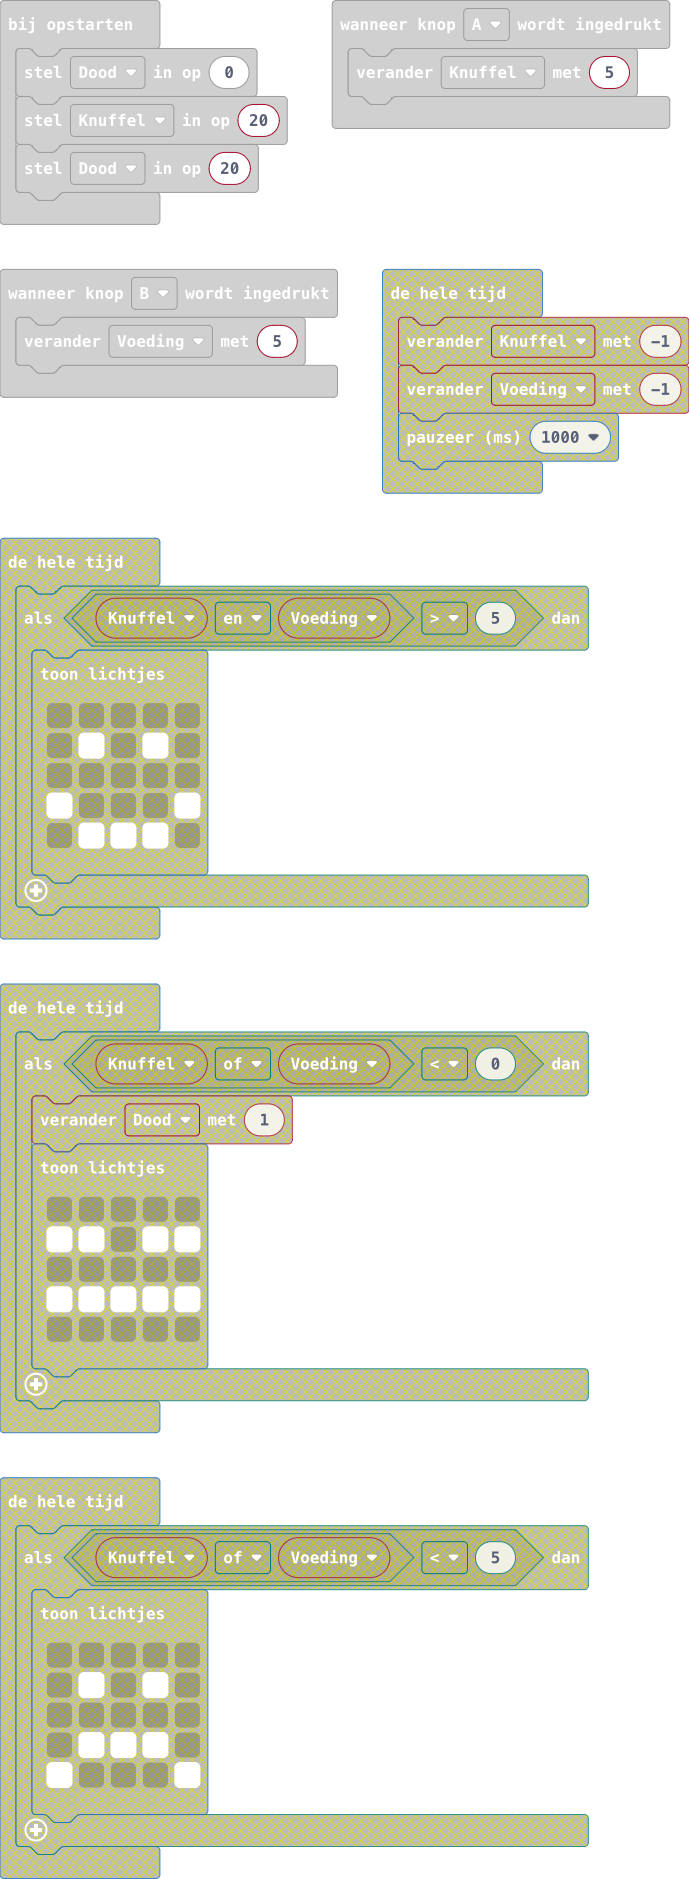
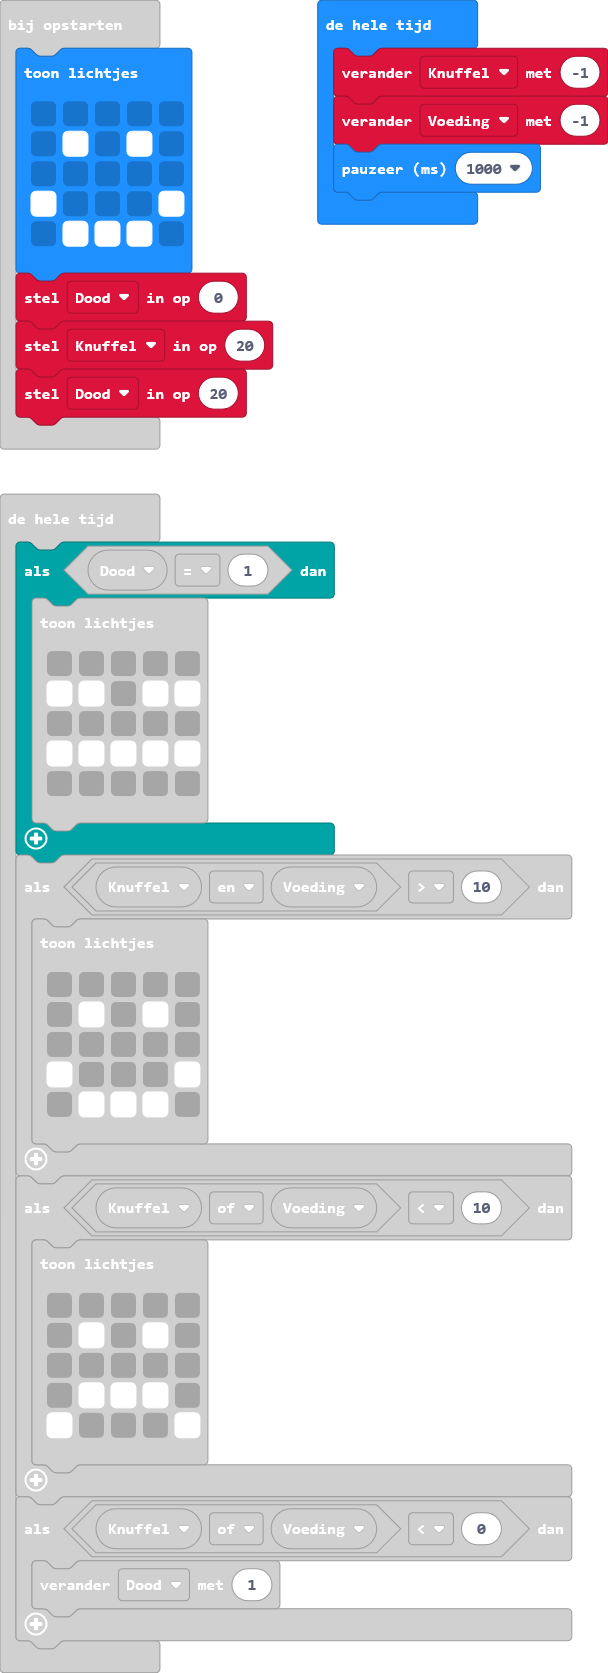
main.blocks, main.ts bijwerken

diff --git a/main.ts b/main.ts
@@ -5,6 +5,13 @@ input.onButtonPressed(Button.B, function () {
     Voeding += 5
 })
 let Voeding = 0
+basic.showLeds(`
+    . . . . .
+    . # . # .
+    . . . . .
+    # . . . #
+    . # # # .
+    `)
 let Dood = 0
 let Knuffel = 20
 Dood = 20
@@ -12,6 +19,8 @@ basic.forever(function () {
     Knuffel += -1
     Voeding += -1
     basic.pause(1000)
+})
+basic.forever(function () {
     if (Dood == 1) {
         basic.showLeds(`
             . . . . .
